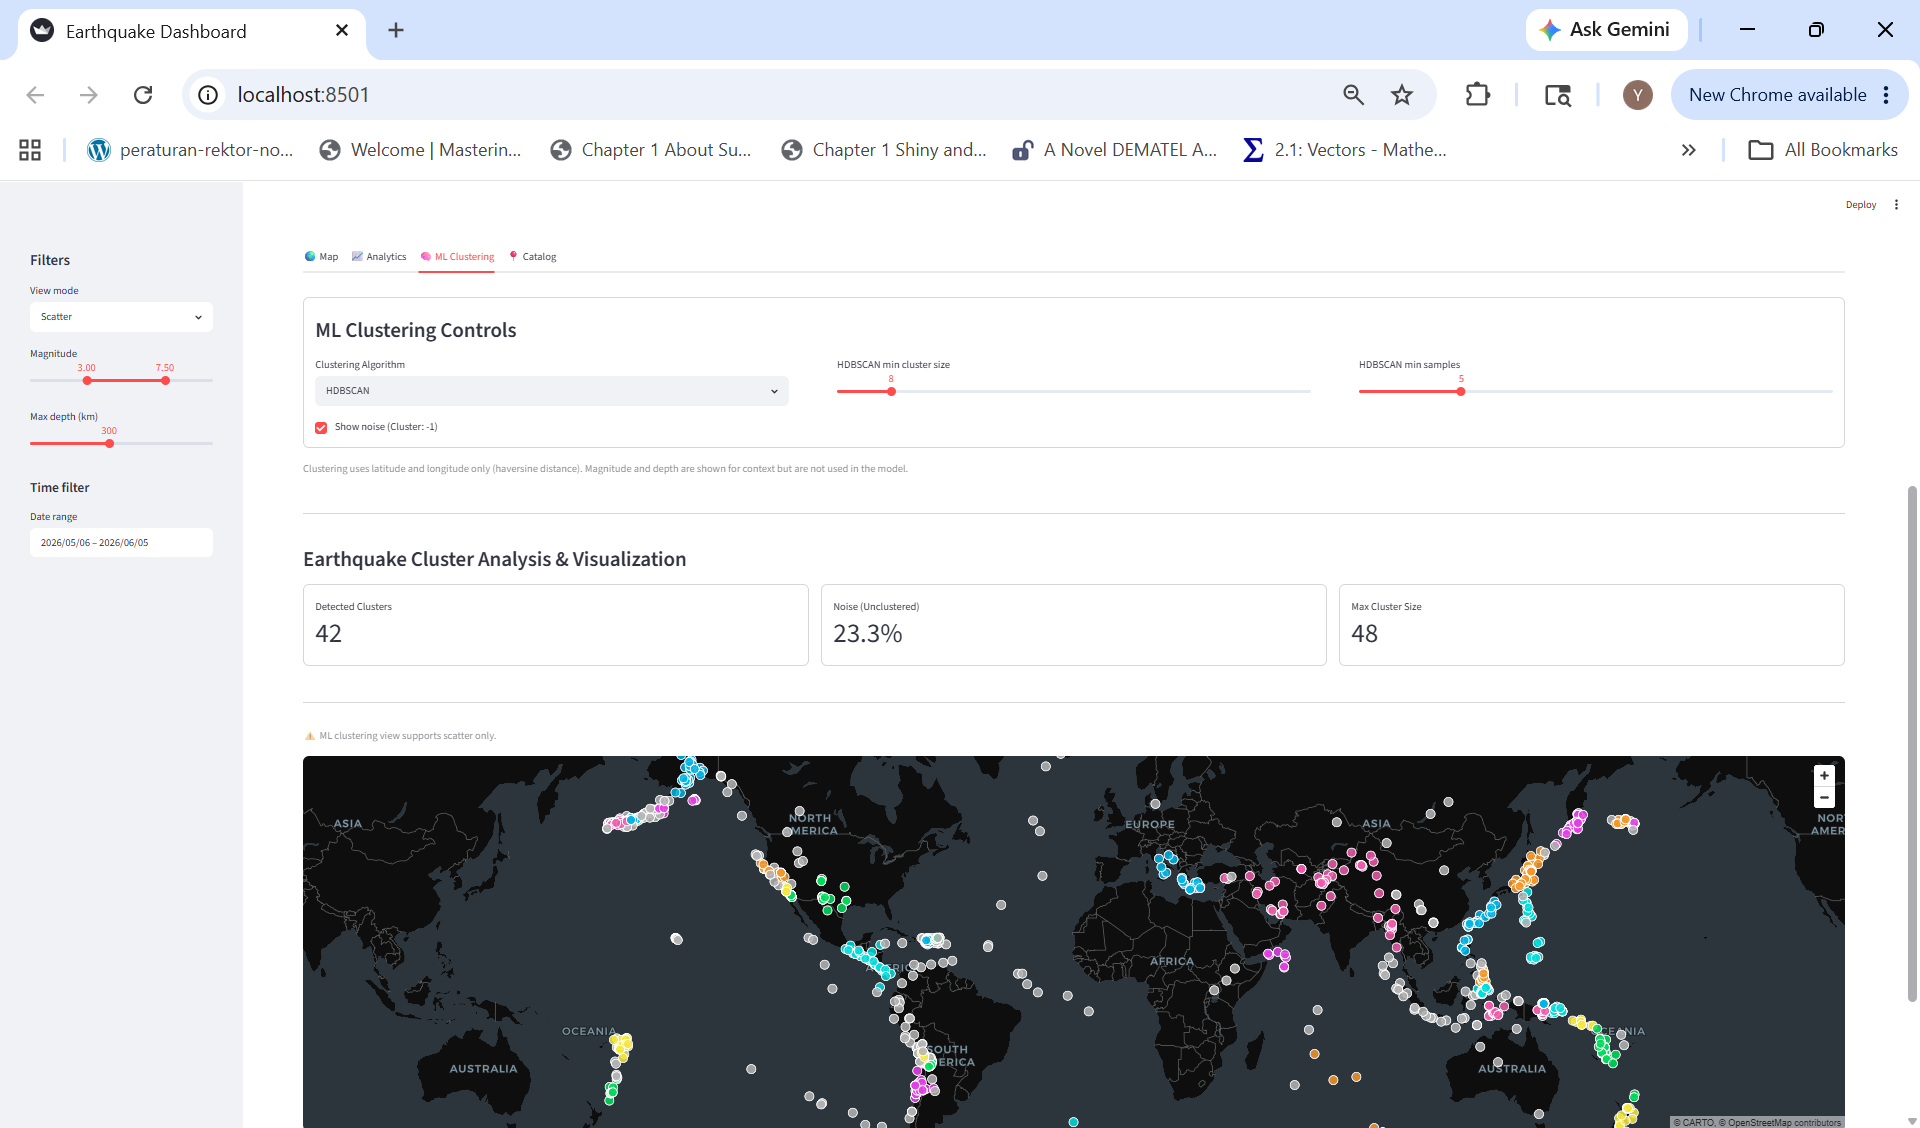
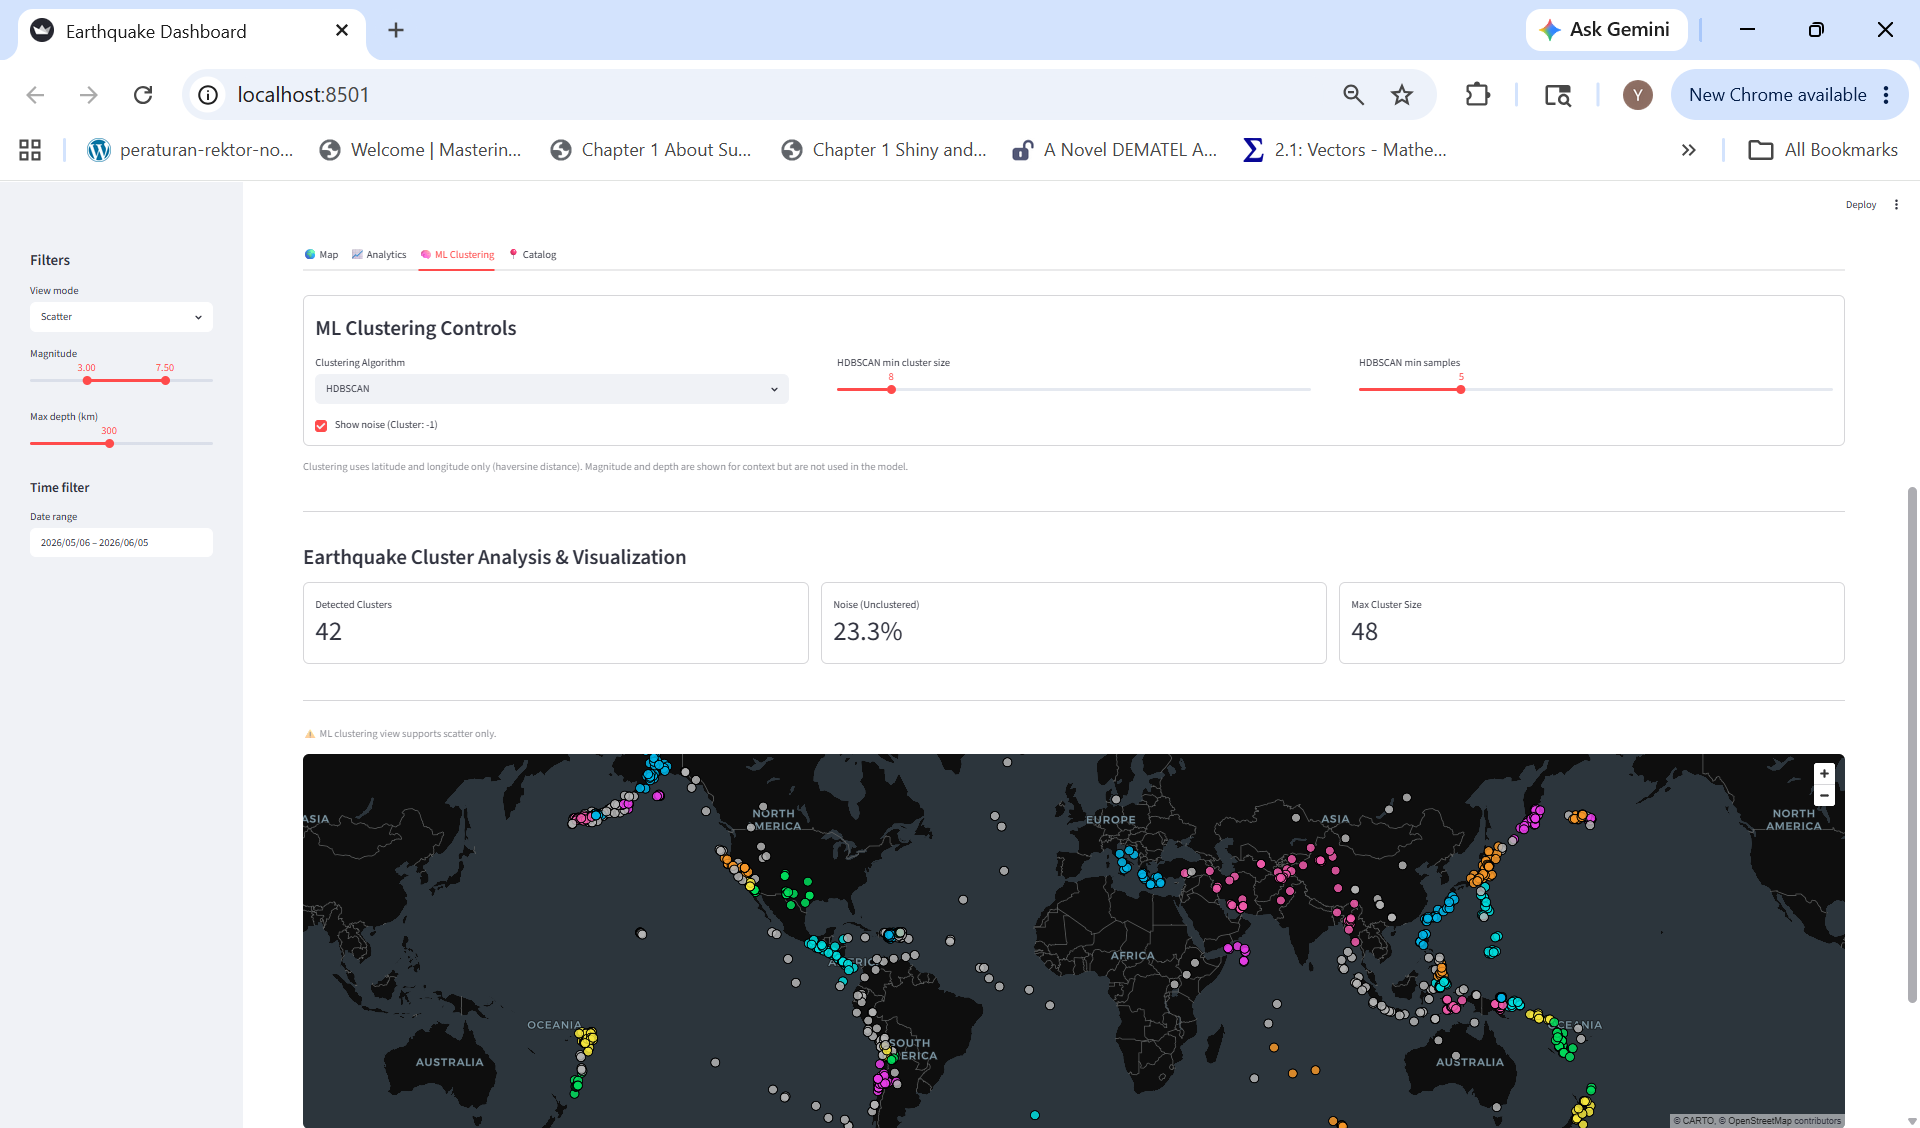
Improve map appearance and update README

diff --git a/components/ml_clustering_tab.py b/components/ml_clustering_tab.py
@@ -119,7 +119,7 @@ def render_ml_earthquake_map(dff):
         radius_max_pixels=6,
         opacity=0.7,
         stroked=True,
-        get_line_color=[255, 255, 255],
+        get_line_color=[0, 0, 0],
         line_width_min_pixels=1.5,
         filled=True,
         pickable=True,
